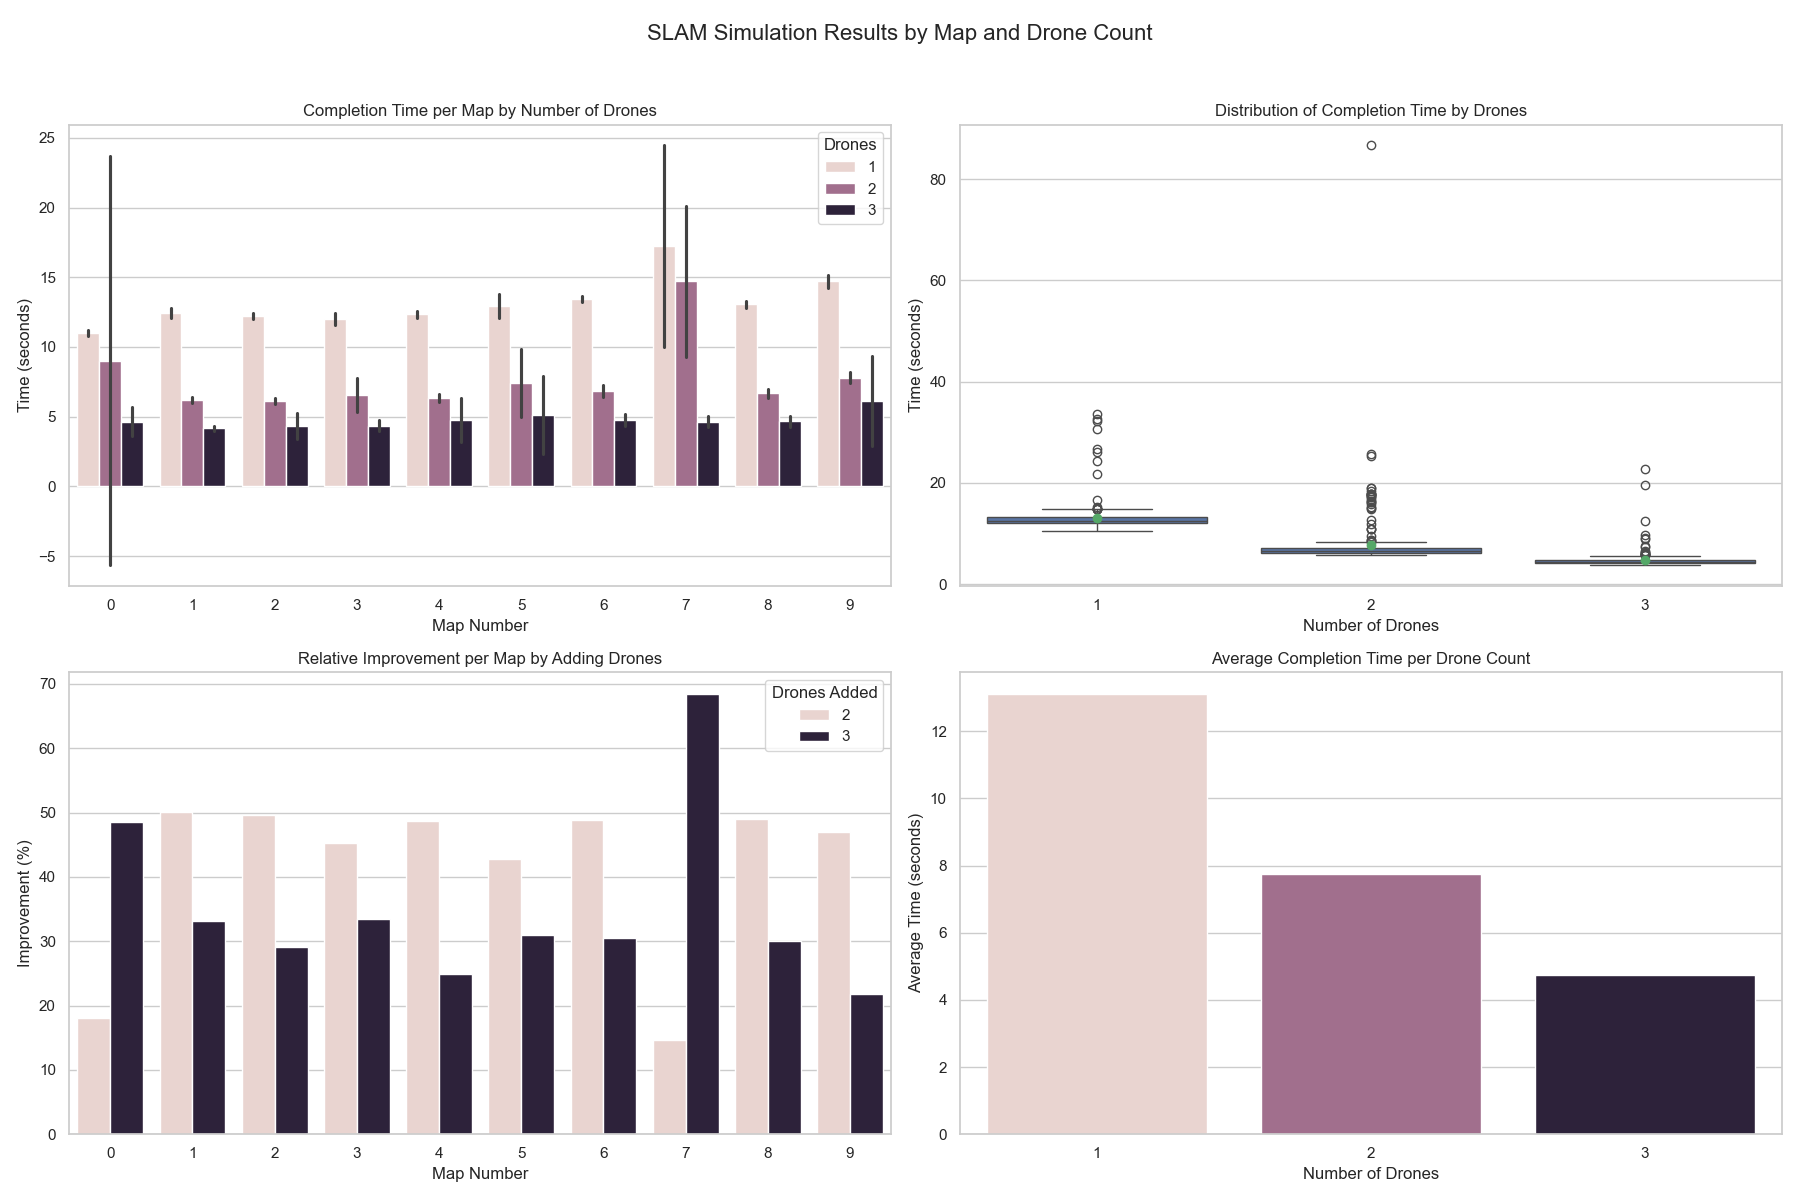
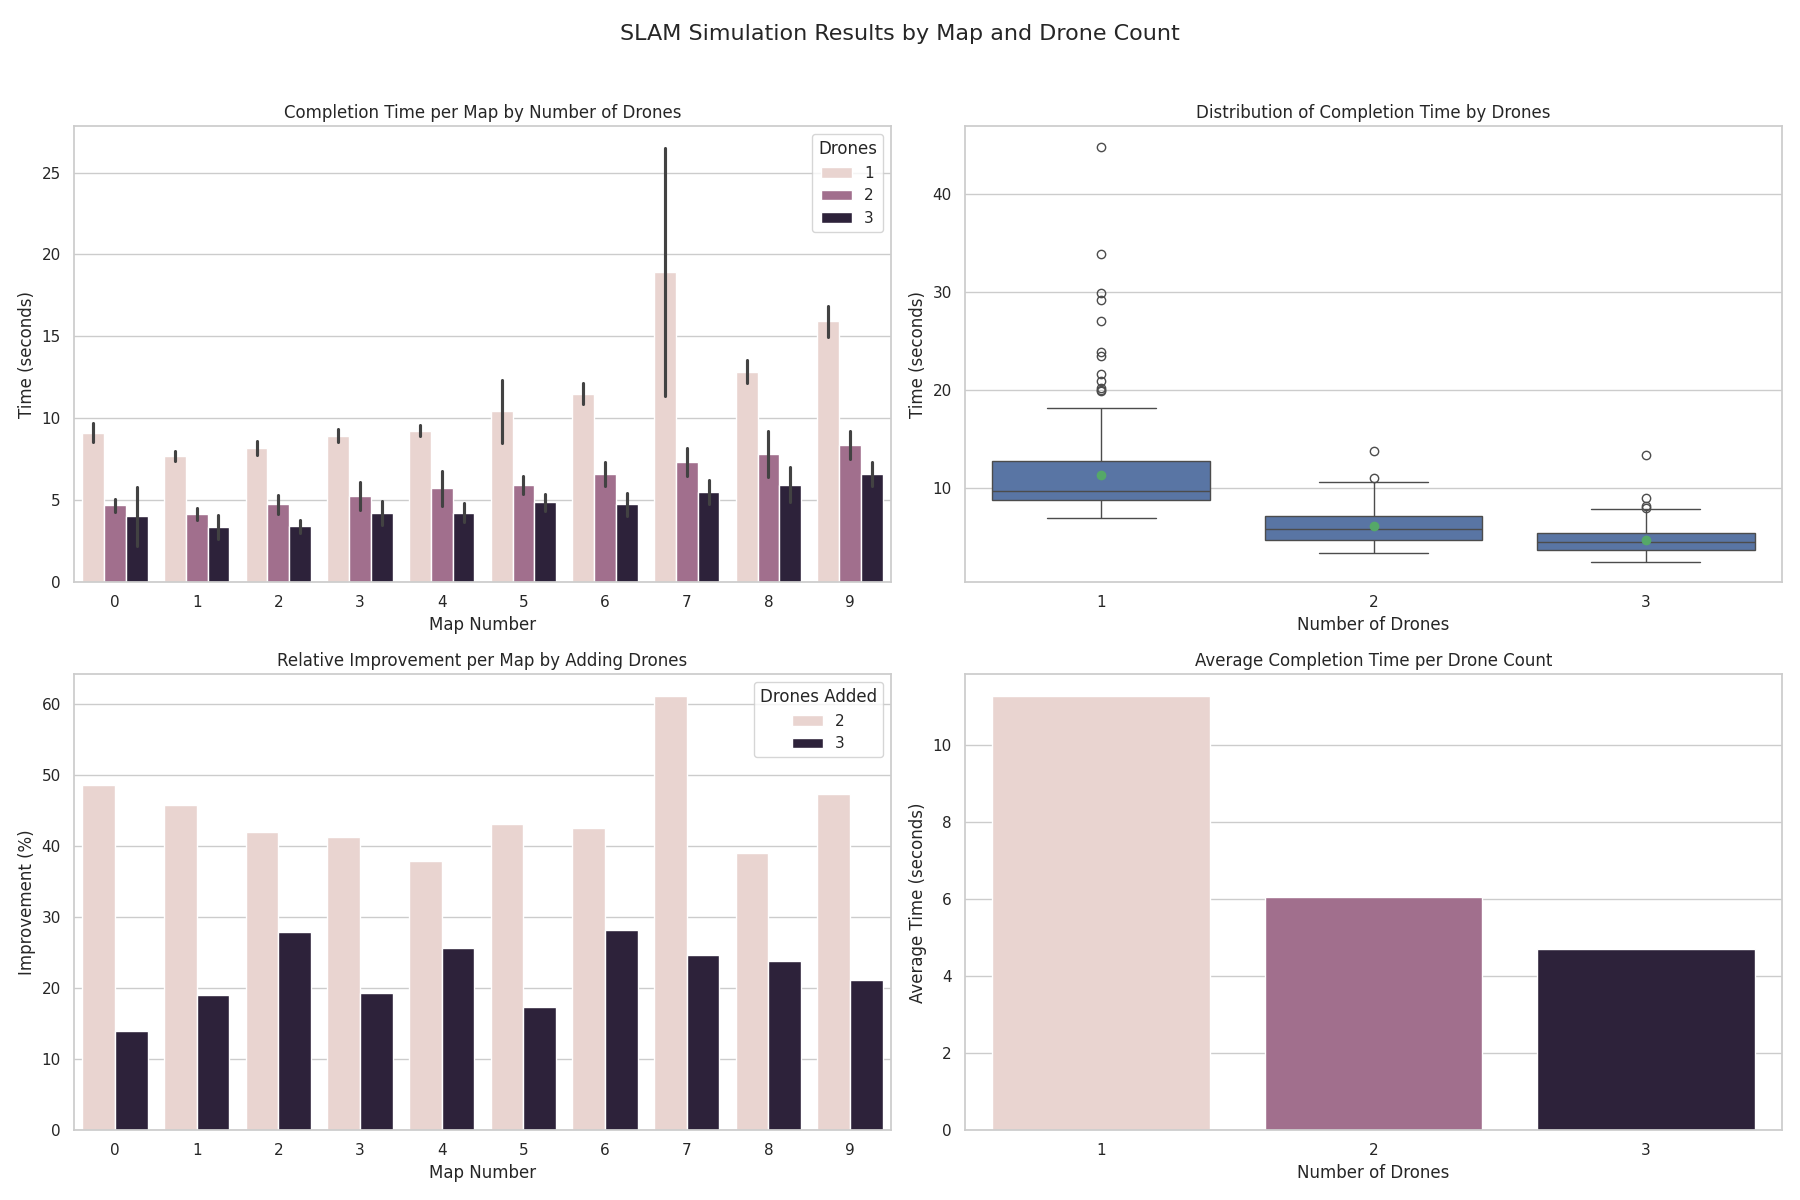
Fix drone deadlock issue

diff --git a/src/planner/algorithm/naive_planner.py b/src/planner/algorithm/naive_planner.py
@@ -147,6 +147,8 @@ def plan_frontier(
             - Updated path to goal
             - Updated wait counter
     """
+    # Make a copy of the path to avoid reference issues
+    path_copy = path.copy() if path else []
     for direction in FACING_DIRECTIONS:
         ddx, ddy = FACING_TO_DELTA[direction]
         for step in range(1, CAMERA_RANGE + 1):
@@ -164,15 +166,20 @@ def plan_frontier(
                 if direction != facing:
                     # Turn toward that direction
                     if turn(facing, 'TURN_LEFT') == direction:
-                        return 'TURN_LEFT', goal, path, wait_counter
+                        return 'TURN_LEFT', goal, path_copy, wait_counter
                     elif turn(facing, 'TURN_RIGHT') == direction:
-                        return 'TURN_RIGHT', goal, path, wait_counter
+                        return 'TURN_RIGHT', goal, path_copy, wait_counter
                     else:
-                        return 'TURN_RIGHT', goal, path, wait_counter
+                        return 'TURN_RIGHT', goal, path_copy, wait_counter
                 else:
-                    return 'STAY', goal, path, wait_counter
+                    return 'STAY', goal, path_copy, wait_counter
 
-    if not goal or global_map[goal[1], goal[0]] != -1 or not path:
+    goal_still_valid = (goal and path_copy and
+                        (goal in frontiers or
+                         abs(goal[0] - current_pos[0]) + abs(goal[1] - current_pos[1]) <= 2))
+
+    need_new_goal = not goal_still_valid
+    if need_new_goal:
         available_frontiers = [f for f in frontiers if f not in assigned_goals]
 
         if not available_frontiers:
@@ -202,24 +209,27 @@ def plan_frontier(
                 max_spacing = spacing
 
         if best_goal:
+            if goal and goal != best_goal and goal in assigned_goals:
+                assigned_goals.remove(goal)
             assigned_goals.add(best_goal)
-            return _follow_path(drone_id, current_pos, facing, best_goal, best_path, all_states, wait_counter, max_wait, env)
+            return _follow_path(drone_id, current_pos, facing, best_goal, best_path.copy(), all_states, wait_counter,
+                                max_wait, env)
         else:
             return plan_random_walk(current_pos, facing, env), None, [], wait_counter
 
-    return _follow_path(drone_id, current_pos, facing, goal, path, all_states, wait_counter, max_wait, env)
+    return _follow_path(drone_id, current_pos, facing, goal, path_copy, all_states, wait_counter, max_wait, env)
 
 
 def _follow_path(
-        drone_id: int,
-        current_pos: Tuple[int, int],
-        facing: FACING_DIRECTION,
-        goal: Optional[Tuple[int, int]],
-        path: List[Tuple[int, int]],
-        all_states: Dict[int, Dict[str, Any]],
-        wait_counter: int,
-        max_wait: int,
-        env: "GridMapEnv"
+    drone_id: int,
+    current_pos: Tuple[int, int],
+    facing: FACING_DIRECTION,
+    goal: Optional[Tuple[int, int]],
+    path: List[Tuple[int, int]],
+    all_states: Dict[int, Dict[str, Any]],
+    wait_counter: int,
+    max_wait: int,
+    env: "GridMapEnv"
 ) -> Tuple[DIRECTIONS, Optional[Tuple[int, int]], List[Tuple[int, int]], int]:
     """
     Follows the given path toward a goal using directional steps.
@@ -248,7 +258,8 @@ def _follow_path(
             - Updated wait counter
     """
     if not path:
-        return 'STAY', goal, path, wait_counter
+        direction = plan_random_walk(current_pos, facing, env)
+        return direction, None, [], 0
 
     next_pos = path[0]
     blocked = any(other_id != drone_id and other.get("pos") == next_pos

diff --git a/src/planner/evaluation/analyze_results.py b/src/planner/evaluation/analyze_results.py
@@ -6,7 +6,7 @@ import seaborn as sns
 
 def parse_args():
     parser = argparse.ArgumentParser(description='Analyze SLAM Simulation Results')
-    parser.add_argument('--log_dir', type=str, default='outputs', help='Directory to save logs')
+    parser.add_argument('--log_dir', type=str, default='logs', help='Directory to save logs')
     parser.add_argument('--csv_name', type=str, default='agency_planner_slam_results1.csv', help='Name of CSV results file')
     parser.add_argument('--png_name', type=str, default='slam_visualization_grid1.png', help='Name of PNG output file')
     args = parser.parse_args()
@@ -23,7 +23,7 @@ def main():
     3. Relative improvement in completion time as more drones are added.
     4. Mean and standard deviation of completion times per drone count.
 
-    The script saves the output as a single image file: `outputs/slam_visualization_grid.png`.
+    The script saves the output as a single image file: `outputs/slam_visualization_grid_camera.png`.
 
     Intended usage:
     > python analyze_results.py

diff --git a/src/planner/evaluation/benchmark_runner.py b/src/planner/evaluation/benchmark_runner.py
@@ -16,7 +16,7 @@ def parse_args():
     parser.add_argument('--drone_counts', nargs='+', type=int, default=[1, 2, 3], help='Number of drones to run')
     parser.add_argument('--iterations', type=int, default=30, help='Number of iterations to run')
     parser.add_argument('--log_dir', type=str, default='logs', help='Directory to save logs')
-    parser.add_argument('--maps_dir', type=str, default='resources/planner/maps', help='Directory to save logs')
+    parser.add_argument('--maps_dir', type=str, default='../../../resources/planner/maps', help='Directory to save logs')
     parser.add_argument('--csv_name', type=str, default='agency_planner_slam_results1.csv', help='Name of CSV results file')
     parser.add_argument('--log_name', type=str, default='agency_planner_slam_run1.log', help='Name of log file')
     parser.add_argument('--write_header', action='store_true', help='Whether to write header to CSV')
